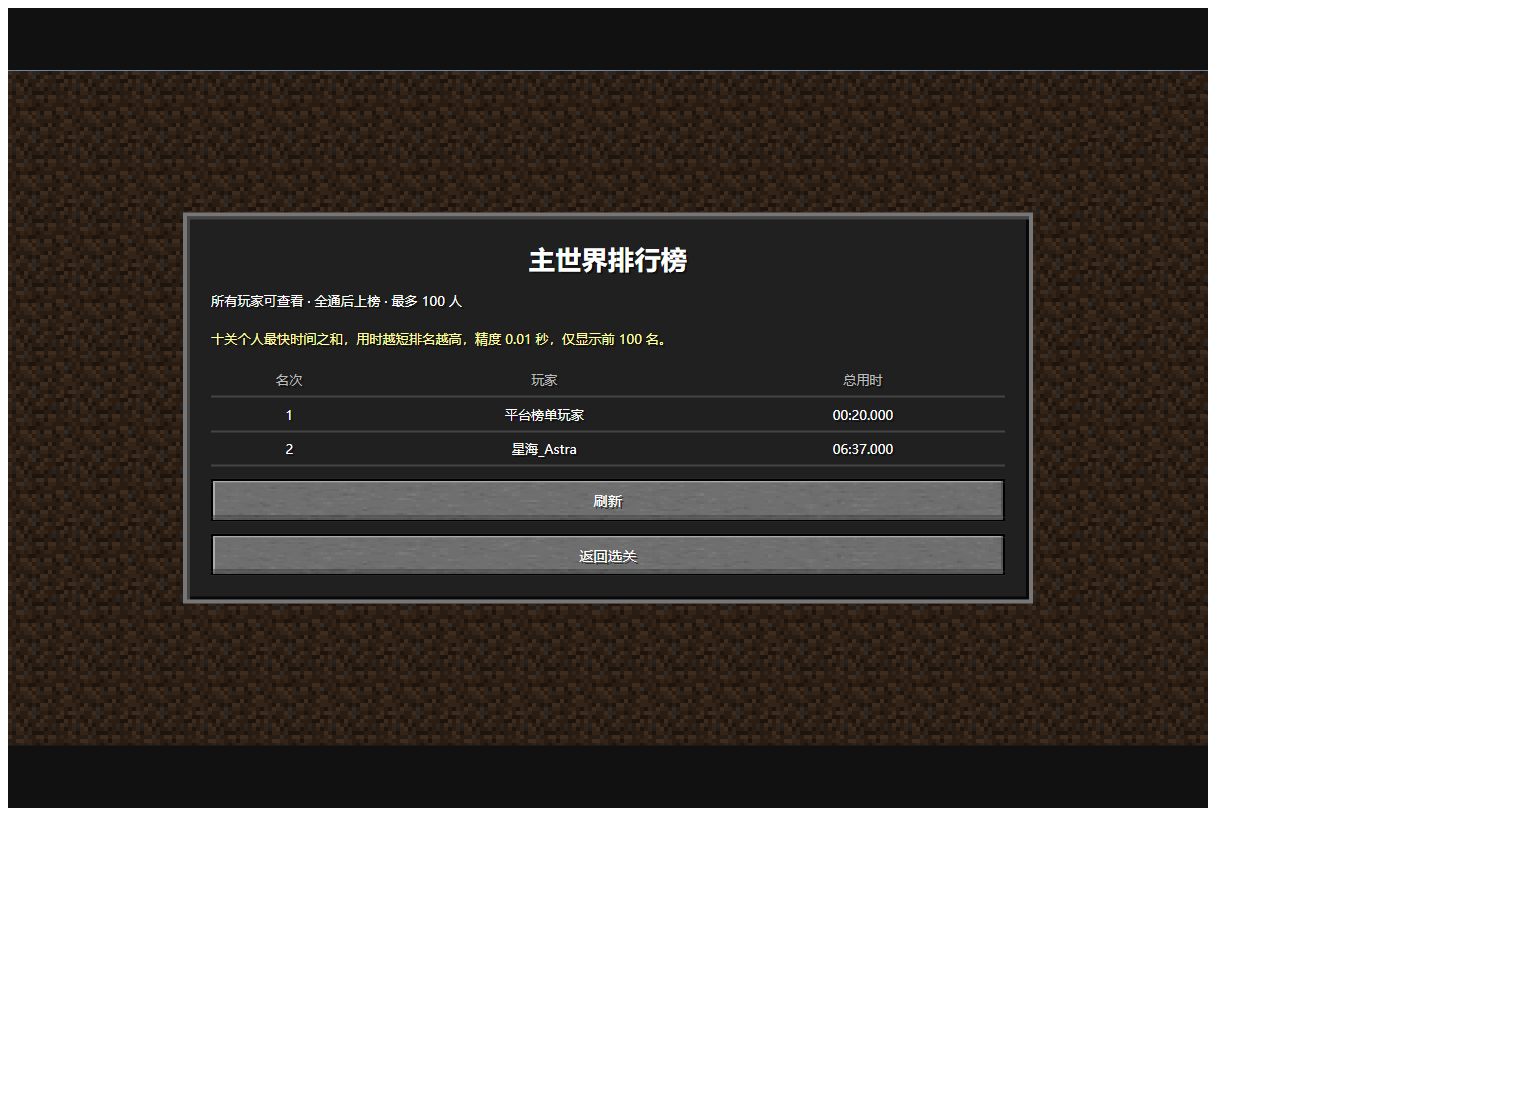
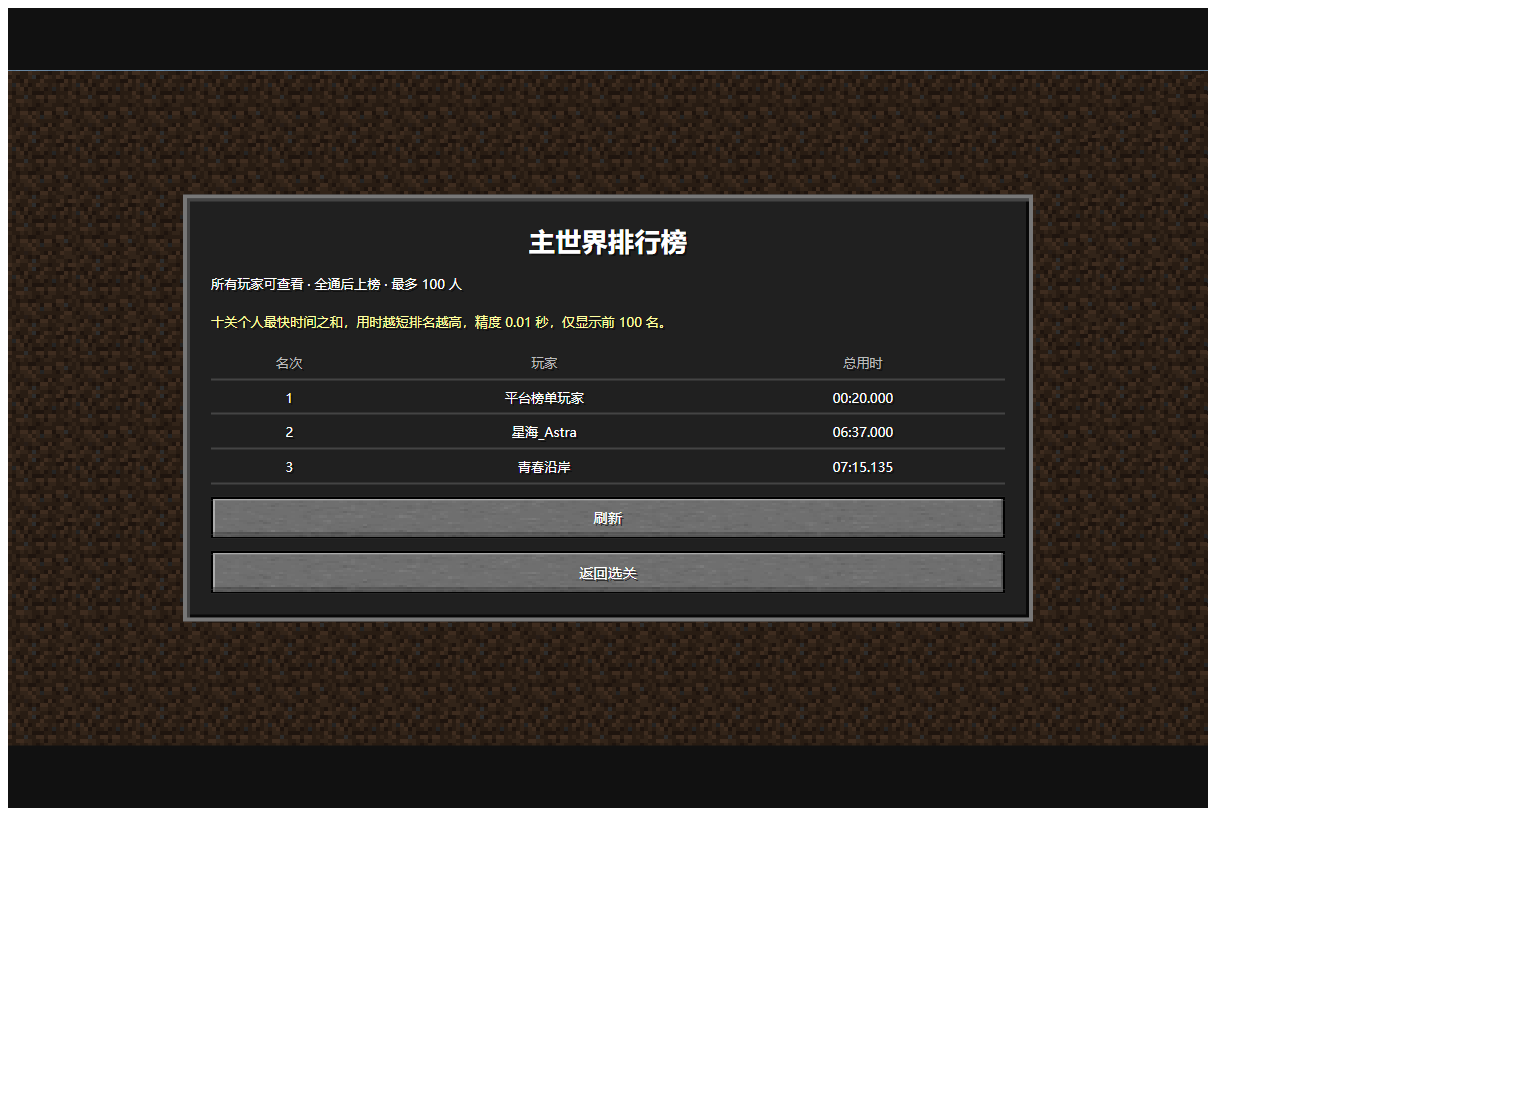
Restore approved historical scores and progress after Toy republish

Changed region(s): [[0.125, 0.2473, 0.6875, 0.5873], [0.125, 0.1545, 0.6875, 0.2473]]

diff --git a/docs/TOY.md b/docs/TOY.md
@@ -1,5 +1,15 @@
 # B 站 Toy 适配
 
+## 现有作品与成绩恢复 — 2026-10-18
+
+新作品 ID 为 `45155222811648`，地址为 `https://www.bilibili.com/toy/Stone_at_Full_Draw/index.html`。旧作品已由用户删除，不再更新旧 ID。
+
+用户确认用本机 2026-10-17 21:25 保存的“青春沿岸”十关真实记录恢复，总计 435135ms（7分15.135秒）。公共历史行保留原始毫秒；Toy 原生榜单按原有百分之一秒编码。指定玩家在当前 SDK 账号独立前缀下合并恢复十关进度及逐关用时，更快的本机、云端记录不会被覆盖，首次云端读取失败也不会写回；其他玩家不继承恢复进度。星海_Astra 的 397000ms 继续作为展示用测试行，不向平台提交虚构账号成绩。
+
+本地官方 SDK 父窗口消息模拟验证了指定玩家恢复、真实身份提交、普通新玩家无进度继承以及两条榜单显示；不能替代真实平台实测。预览为 `https://www.bilibili.com/toy/preview/preview_6VwinRIE/index.html`。用户已明确回复“提交审核”。
+
+家用站已另外从同一备份恢复“青春沿岸”的真实成绩，原有星海_Astra 测试行保留。数据文件保持私有权限并继承 systemd 数据目录属主；修改前已留备份。两套榜单仍独立。
+
 ## 当前名称与手动发布 — 2026-10-18
 
 游戏现名《拉满的石 / Stone at Full Draw》，仓库为 `qcya/stone-at-full-draw`。用户已删除旧 Toy，并决定自行重新发布；下文旧作品 ID、发布状态与预览链接仅作历史记录，不再作为当前在线作品的依据。

diff --git a/CHANGELOG.md b/CHANGELOG.md
@@ -1,5 +1,11 @@
 # 修改记录
 
+## 成绩恢复 — 2026-10-18
+
+- 针对删旧重发后的 Toy，按用户确认恢复“青春沿岸”2026-10-17 的十关真实记录：7分15.135秒；保留星海_Astra 的6分37秒展示行。
+- 恢复只合并指定玩家的历史进度和最快用时，其他新玩家仍从第一关开始；不覆盖更快成绩，不在云端初次读取失败时覆盖远端数据。
+- 补充真实 SDK 消息桥回归，检查恢复、原生提交、普通玩家隔离和榜单去重。
+
 ## 品牌更新 — 2026-10-18
 
 - 中文名确定为《拉满的石》，英文名为 Stone at Full Draw，仓库名称同步为 stone-at-full-draw。
